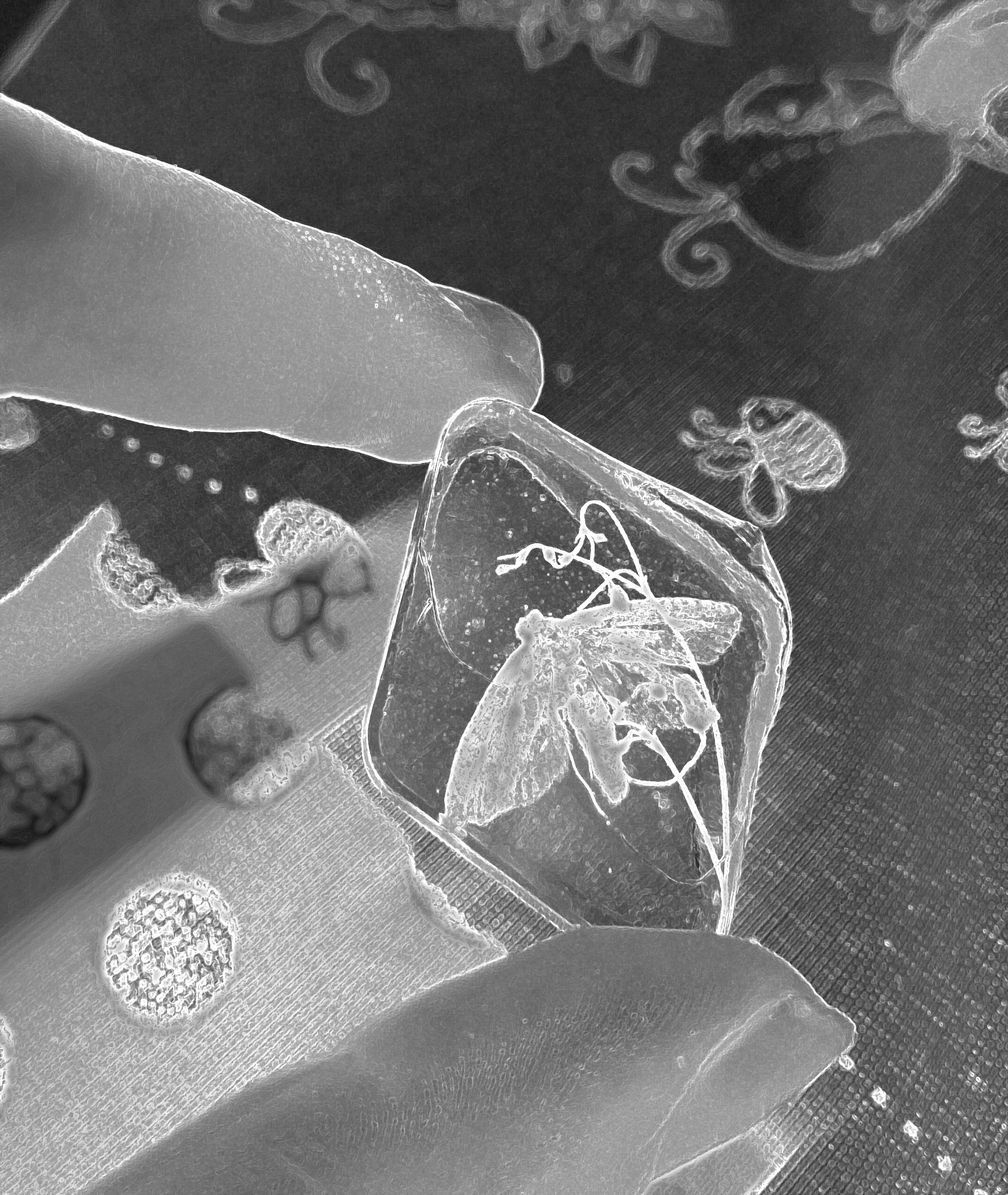
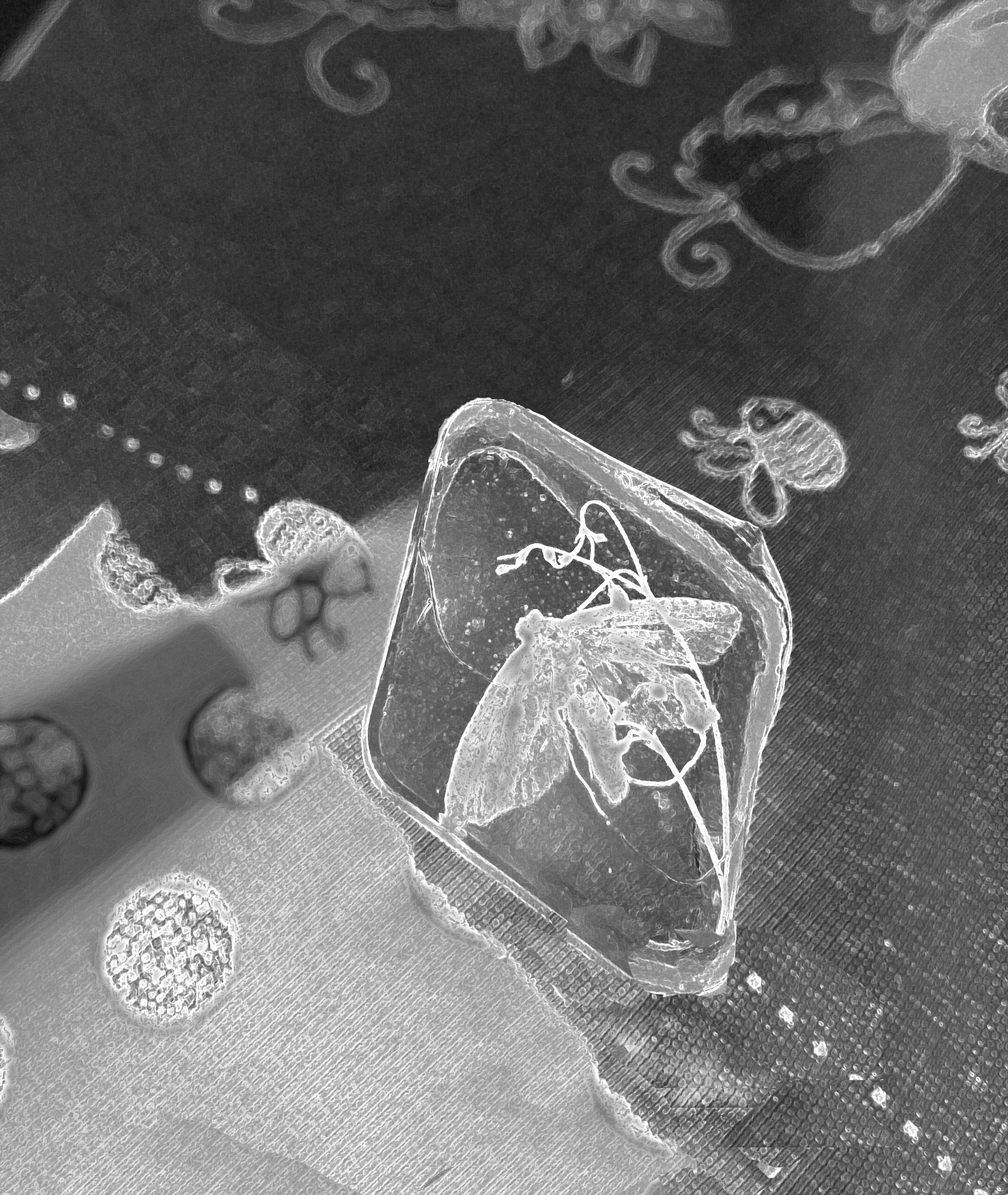
4

Changed region(s): [[0.062, 0.7409, 0.8995, 1.0], [0.0, 0.0617, 0.5583, 0.4013]]

diff --git a/style.css b/style.css
@@ -43,14 +43,10 @@ body {
 .portfolio {
     width: 100%;
     max-width: 430px;
-
-    margin: 0 auto;
-
-    background: #f2f2f0;
-
     min-height: 100vh;
+    margin: 0 auto;
+    background: #f7f4f2;
 }
-
 
 /* =========================
    HEADER
@@ -132,18 +128,17 @@ body {
 /* TEXTO */
 
 .intro-text {
-    margin-top: 70px;
+    margin-top: 0px;
     padding: 10px;
     margin-left: auto;
     text-align: right;
 }
 
 .intro-text h5 {
-    font-size: 20px;
+    font-size: 13px;
     margin: 0;
     padding: 10px;
-    letter-spacing: -1px;
-    font-style: italic;
+    letter-spacing: 1px;
     font-family: 'Times New Roman', Times, serif;
 }
 
@@ -162,7 +157,7 @@ body {
 ========================= */
 
 .works {
-    background: #f2f2f0;
+    background: #fff8f0;
 
     padding: 0 10px;
 }
